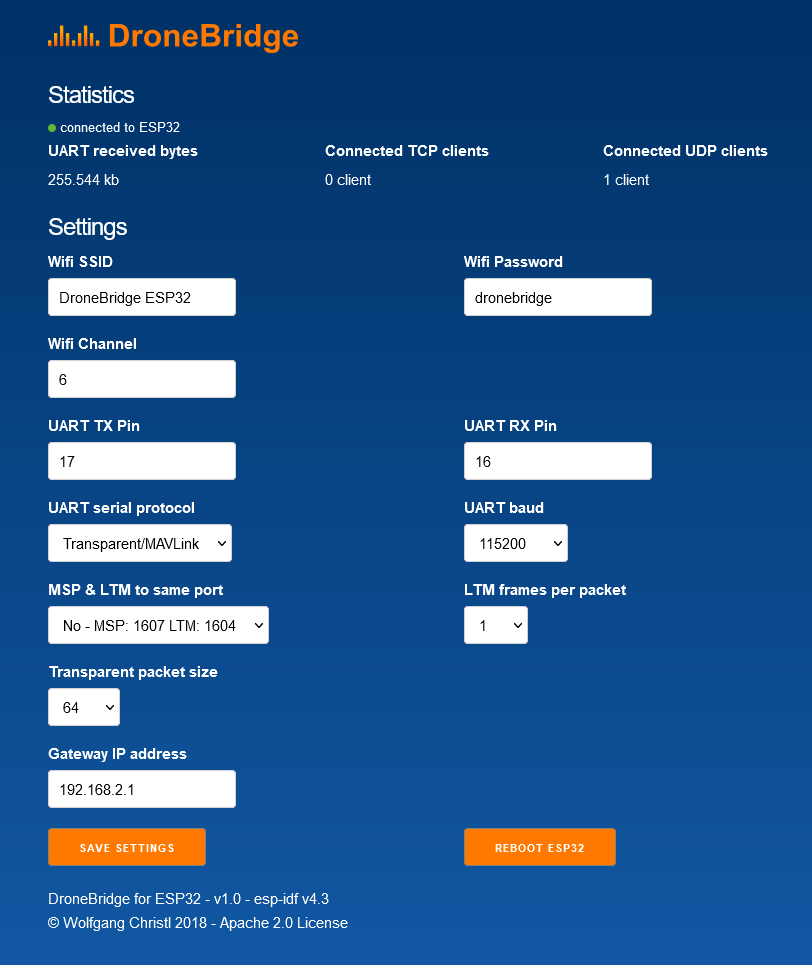
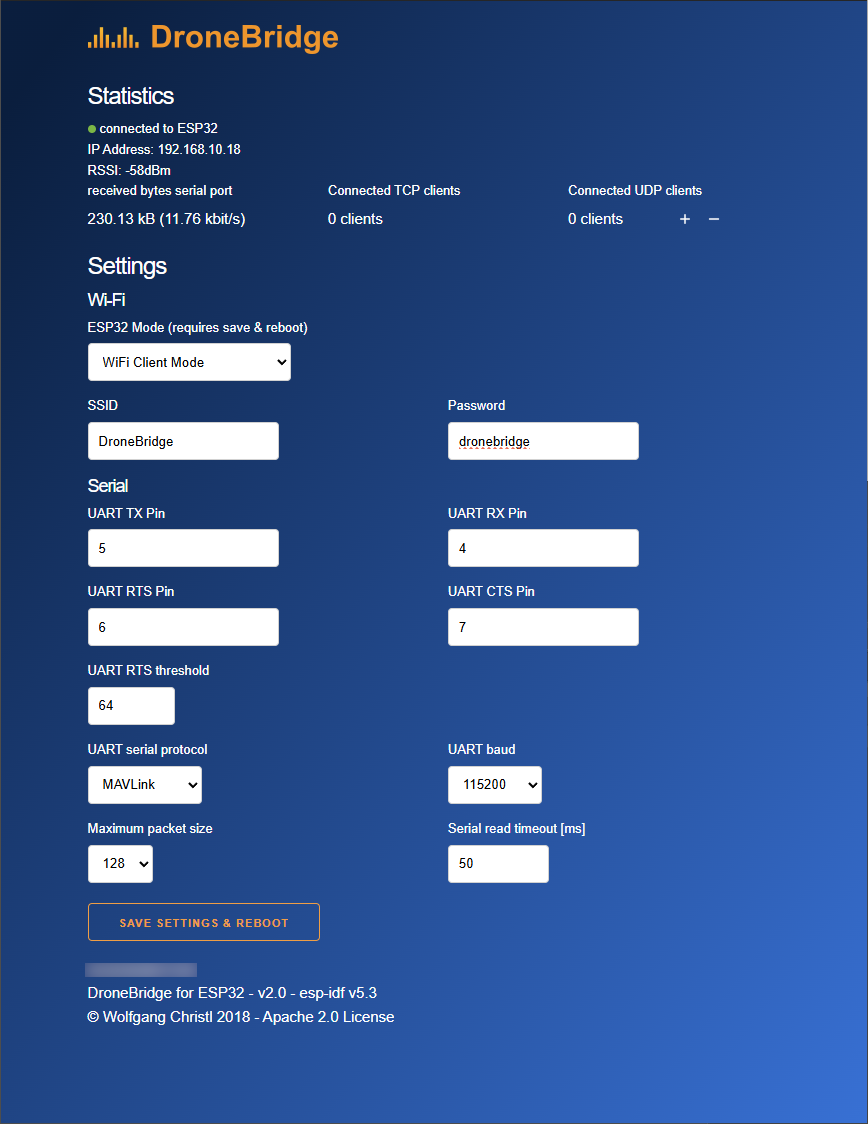
Update ESP32 Telemetry (DroneBridge)
Added docs about new modes, website and wiki.
Restructured for better readability and clarity.

diff --git a/en/telemetry/esp32_wifi_module.md b/en/telemetry/esp32_wifi_module.md
@@ -2,77 +2,119 @@
 
 ESP32 are readily available WiFi modules with dedicated UART, SPI and I2C interfaces, and full TCP/IP stack and microcontroller capability.
 They come without firmware, but _DroneBridge for ESP32_ can be installed to enable them as a transparent and bi-directional serial to WiFi bridge.
-They can then be used as a WiFi telemetry module with any Pixhawk series controller.
+They can then be used as a WiFi telemetry module with any Pixhawk series controller. Additionally, they offer a special ESP-NOW Mode which enables ranges of up to 1km+.
 
-No configuration is generally required if connected to `TELEM2`.
-The typical range is approximately 50m-200m (depending on the antenna used).
+The typical range depends on the antenna and environment
+- WiFi-Modes: ~50m-200m
+- ESP-NOW Modes: 300m-1km+
 
-![DroneBridge for ESP32 connection concept](../../assets/peripherals/telemetry/esp32/db_ESP32_setup.png)
+![DroneBridge for ESP32 connection concept using WiFi](../../assets/peripherals/telemetry/esp32/db_ESP32_setup.png)
+
+_DroneBridge for ESP32_ supports standard WiFi connections to an access point but can also operate as a standalone access point.
+
+![DroneBridge for ESP32 connection concept for ESP-NOW modes](../../assets/peripherals/telemetry/esp32/DB_ESP32_NOW_Illistration.png)
+
+The ESP-NOW mode offers a connectionless and encrypted alternative to traditional WiFi. While the data rate is reduced to <250 kbit/s the range is increased up to 1 km. This mode has no limit on how many clients are connected on the autopilot side. Only channel capacity and processing capacity limit the number of clients. This mode requires ESP32 devices on the GCS side as well as on the autopilot side.
+
+## Features
+
+- Bidirectional: serial-to-WiFi, serial-to-WiFi Long-Range (LR), serial-to-ESP-NOW link
+- Support for MAVLink, MSP, LTM or any other payload using transparent option
+- Affordable, Reliable & low latency
+- Weight: <8 g
+- Up to 150m range using standard WiFi
+- Up to 1km of range using ESP-NOW or Wi-Fi LR Mode - sender & receiver must be ESP32 with LR-Mode enabled
+- Fully encrypted in all modes including ESP-NOW broadcasts secured using AES-GCM 256 bit!
+- Support for drone swarms of almost any size using ESP-NOW with its custom & encrypted broadcast mode
+- Supported by: QGroundControl, Mission Planner, mwptools, impload etc.
+- Easy to set up: Power connection + UART connection to flight controller
+- Fully configurable through an easy-to-use web interface
+- Parsing of LTM & MSPv2 for more reliable connection and less packet loss
+- Parsing of MAVLink with the injection of Radio Status packets for the display of RSSI in the GCS
+- Fully transparent telemetry down-link option
+
+::: info
+[You can find all the latest information on the current version of _DroneBridge for ESP32_ on the official website.](https://dronebridge.github.io/ESP32/)
+:::
 
 ## Recommended Hardware
 
-_DroneBridge for ESP32_ can run on almost every ESP32 development board.
-Boards and modules with an external antenna connector are recommended, since these will offer more range.
+_DroneBridge for ESP32_ can run on allmost all ESP32 development boards.
+Boards and modules with an external antenna connector are recommended since these will offer more range.
 
 :::warning
-Many ESP32 modules support 3.3V and 5V power supply input, while some flight controllers (e.g. Pixhawk 4) output at 5V.
+Some ESP32 modules support 3.3V and 5V power supply input, while some flight controllers (e.g. Pixhawk 4) output at 5V.
 You will need to check compatibility and step down the voltage if needed.
 :::
 
-Modules and DevKits that accept 3.3V or 5V power supply:
+## Officially Supported and Tested Boards
 
-- [AZ-Delivery — ESP-32 DevKit C](https://www.az-delivery.de/en/products/esp-32-dev-kit-c-v4)
-- [TinyPICO — ESP32 Development Board - V2](https://www.adafruit.com/product/4335)
-- [Adafruit HUZZAH32 — ESP32 Feather Board](https://www.adafruit.com/product/3405)
-- [Adafruit AirLift — ESP32 WiFi Co-Processor Breakout Board](https://www.adafruit.com/product/4201) (requires FTDI adapter for flashing firmware)
-- [Adafruit — HUZZAH32](https://www.adafruit.com/product/4172) (requires FTDI adapter for flashing firmware)
+Do the project and yourself a favour and use one of the officially supported and tested boards. These are very low in price, have everything you need and are also very small. Perfect for use on any UAV.
 
-## Downloading and Flashing the Firmware
+[You can find all the latest information on the official boards on the website.](https://dronebridge.github.io/ESP32/)
 
-[Download the firmware from the GitHub repository](https://github.com/DroneBridge/ESP32/releases) and then [follow these flashing instructions](https://github.com/DroneBridge/ESP32#installationflashing-using-precompiled-binaries).
+## Installing/Updating the Firmware
 
-:::tip
-The instructions on Github are recommended because they are always up to date.
-Note that the parameters may differ between releases of _DroneBridge for ESP32_.
-:::
-
-The main steps are:
-
-1. [Download the pre-compiled firmware binaries](https://github.com/DroneBridge/ESP32/releases)
-1. Connect your DEVKit to your computer via USB/Serial bridge (most DevKits already offer a USB port for flashing and debugging)
-1. Erase the flash and flash the DroneBridge for ESP32 firmware onto your ESP32
-   - Using [Espressif Flash Download Tool](https://www.espressif.com/en/support/download/other-tools) (Windows only)
-   - Using esp-idf/esptool (all platforms)
-1. Power Cycle the ESP32
-1. [Connect to the "DroneBridge for ESP32" WiFi network and configure the firmware for your application](#configuring-dronebridge-for-esp32)
+An easy-to-use online flashing tool is available on the official website. Just connect your ESP32 and click flash!  
+[For more detailed information please visit the official Wiki!](https://dronebridge.gitbook.io/docs/dronebridge-for-esp32/untitled)
 
 ## Wiring
 
-Wiring is very simple, and similar for all devices when connecting to the Pixhawk TELEM1/2 ports.
-You can use 2.54mm pitch header connectors or solder the PX4 telemetry cables directly to the board.
+When using one of the official boards it is as simple as plugging the cable into the TELEMx port of the PX4.
+For other boards it still mostly the same for all devices connected to any serial port (ie. TELEM1 or TELEM2) of the flight controller. This guide does not go into detail here but provides an outline for wiring below.
 
 ![Example for wiring an ESP32 to the TELEM port](../../assets/peripherals/telemetry/esp32/pixhawk_wiring.png)
 
-1. Connect UART of ESP32 to a UART of your flight controller (e.g. TELEM 1 or TELEM 2 port).
-   Make sure the voltage levels match: most ESP32 DevKits can only take 3.3V!
-   - TX to RX
-   - RX to TX
-   - GND to GND
-   - Provide a stable 3.3V or 5V power supply to the ESP32 (depending on the available inputs of your DevKit)
-1. Set the flight controller port to the desired protocol.
-1. Boards with an IPEX port for an external antenna often also offer an onboard antenna that is activated by default.
-   You may need to resolder a resistor to activate the external antenna port.
+- Connect UART of ESP32 to a UART of your autopilot (ie. TELEM 1 or TELEM 2 port). Make sure the voltage levels match!
+- RX to TX
+- GND to GND
+- Stable 3.3V or 5V power supply to the ESP32 (depending on the available inputs of your ESP32 and capabilities of the autopilot)
+- Set the autopilot port to MAVLINK 1 or 2 protocol.
 
 ::: info
 
-- Follow the ESP32 board manufacturers recommendations on power supply.
+- Follow the ESP32 board manufacturer recommendations on power supply.
   Some boards might have issues if they are simultaneously connected to a 5V power source and have a USB cable connected to the USB/Serial bridge (USB socket of the ESP32 dev board).
 - Some ESP32 DevKits manufacturers use the wrong labels for the pins on their products.
-  Make sure that the PINs on your board are labeled correctly if you encounter issues.
-
+  Make sure that the PINs on your board are labelled correctly if you encounter issues.
 :::
 
-## Configuring QGroundControl
+## Configuring PX4
+
+Configure the UART of the flight controller that is wired to the ESP32 to have matching baud rates and MAVLink set as the protocol for optimal performance. An example of parameters is given below.  
+
+- `SER_TEL1_BAUD`: 115200 8N1
+- `MAV_0_RATE`: 24000 (can be increased optionally)
+
+## Configuring DroneBridge for ESP32
+
+![DroneBridge for ESP32 Webinterface](../../assets/peripherals/telemetry/esp32/dbesp32_webinterface.png)
+
+The _DroneBridge for ESP32_ default configuration should work for connecting to PX4 "out of the box".
+The only configuration that may be required is ensuring that the baud rates of the ESP32 and flight controller match.
+
+You will want to change these settings if you want to use different pins on the ESP32, a different WiFi configuration, or to tweak the packet size.
+A lower packet size means more overhead and load on the system, less latency, and faster recovery from a lost packet.
+
+### Default Configuration for the Official HW1.x Boards
+
+`UART TX Pin: 5`  
+`UART RX Pin: 4`  
+`UART RTS Pin: 6`  
+`UART CTS Pin: 7`  
+
+### Supported Modes
+
+| **MavLink Index** | **DroneBridge for ESP32 Mode** | **Encryption** | **Description**                                                                                                                                          | **Notes**                                                                                                                                                                  |
+|-------------------|--------------------------------|----------------|----------------------------------------------------------------------------------------------------------------------------------------------------------|----------------------------------------------------------------------------------------------------------------------------------------------------------------------------|
+| 1                 | WiFi Access Point Mode         | WPA2 PSK       | ESP32 launches classic WiFi access point using 802.11b rates                                                                                             | Any WiFi device can connect                                                                                                                                                |
+| 2                 | WiFi Client Mode               | min. WEP       | ESP32 connects to an existing WiFi access point. LR Mode supported                                                                                       | Encryption defined by access point. Multiple drones can connect to one AP and GCS. 802.11b rates                                                                           |
+| 3                 | WiFi Access Point Mode LR      | WPA2 PSK       | ESP32 launches WiFi access point mode using espressifs LR mode                                                                                           | Only ESP32 LR Mode enabled devices can detect and connect to the access point. Data rate is reduced to 0.25Mbit. Range is greatly increased.                               |
+| 4                 | ESP-NOW LR Mode AIR            | AES256-GCM     | ESP32 is able to receive ESP-NOW broadcast packets from any GCS in the area and forwards them to the UART. Broadcasts to all GND stations in the area.   | Connectionless protocol. Data rate is reduced to 0.25Mbit. Range is greatly increased compared to WiFi modes. Custom encryption mode for ESP-NOW broadcasts and protocol. |
+| 5                 | ESP-NOW LR Mode GND            | AES256-GCM     | ESP32 is able to receive ESP-NOW broadcast packets from any drone in the area and forwards them to the UART. Broadcasts to all AIR stations in the area. | Connectionless protocol. Data rate is reduced to 0.25Mbit. Range greatly increased compared to WiFi modes. Custom encryption mode for ESP-NOW broadcasts and protocol.     |
+
+
+## Configuring the Ground Control Station
 
 QGroundControl should auto-detect the connection and no further actions should be necessary (_DroneBridge for ESP32_ automatically forwards data from all connected WiFi devices via UDP to port 14550).
 
@@ -81,89 +123,8 @@ The following connection options are available:
 - UDP unicast on port `14550` to all connected devices.
 - TCP on port `5760`
 
-## Configuring DroneBridge for ESP32
-
-The _DroneBridge for ESP32_ default configuration should work for connecting to PX4 "out of the box".
-The only configuration that may be required is ensuring that the baud rates of the ESP32 and flight controller match.
-
-You will want to change these settings if you want to use different pins on the ESP32, a different WiFi configuration, or to tweak the packet size.
-Lower packet size means more overhead and load on the system but also less latency and faster recovery from a lost packet.
-
-### Default Configuration
-
-- SSID: `DroneBridge for ESP32`
-- Password: `dronebridge`
-- Transparent/MAVLink
-- UART baud rate `115200`
-- UART TX pin `17`
-- UART RX pin `16`
-- Gateway IP: `192.168.2.1`
-
-### Custom Settings & Webinterface
-
-You can change the default configuration via the Webinterface.
-Connect to the ESP32 via WiFi and enter `dronebridge.local`, `http://dronebridge.local` or `192.168.2.1` in the address
-bar of your browser.
-
-![DroneBridge for ESP32 Webinterface](../../assets/peripherals/telemetry/esp32/dbesp32_webinterface.png)
-
-:::tip
-Some settings require you to reboot the ESP32 to take effect.
-:::
-
-### API
+### API & Troubleshooting
 
 DroneBridge for ESP32 offers a REST:API that allows you to read and write configuration options.
-You are not limited to the options presented by the Webinterface (e.g. baud rates).
-You can use the API to set custom baud rates or to integrate the system into your own setup.
 
-**To request the settings**
-
-```http request
-http://dronebridge.local/api/settings/request
-```
-
-**To request stats**
-
-```http request
-http://dronebridge.local/api/system/stats
-```
-
-**Trigger a reboot**
-
-```http request
-http://dronebridge.local/api/system/reboot
-```
-
-**Trigger a settings change:** Send a valid JSON
-
-```json
-{
-  "wifi_ssid": "DroneBridge ESP32",
-  "wifi_pass": "dronebridge",
-  "ap_channel": 6,
-  "tx_pin": 17,
-  "rx_pin": 16,
-  "telem_proto": 4,
-  "baud": 115200,
-  "msp_ltm_port": 0,
-  "ltm_pp": 2,
-  "trans_pack_size": 64,
-  "ap_ip": "192.168.2.1"
-}
-```
-
-to
-
-```http request
-http://dronebridge.local/api/settings/change
-```
-
-## Troubleshooting
-
-- Always erase the flash of the ESP32 before flashing a new release/firmware
-- Check if the pins on your ESP board are labeled correctly.
-- Enter the IP address in your browsers address bar `http://192.168.2.1`.
-  No https supported!
-  You may need to disconnect from the cellular network when using a phone to be able to access the webinterface.
-- If your network is operating in the same IP range as DB for ESP32 you need to change the Gateway IP address in the Webinterface to something like `192.168.5.1`.
+[For more detailed information please visit the official Wiki!](https://dronebridge.gitbook.io/docs/dronebridge-for-esp32/untitled)
